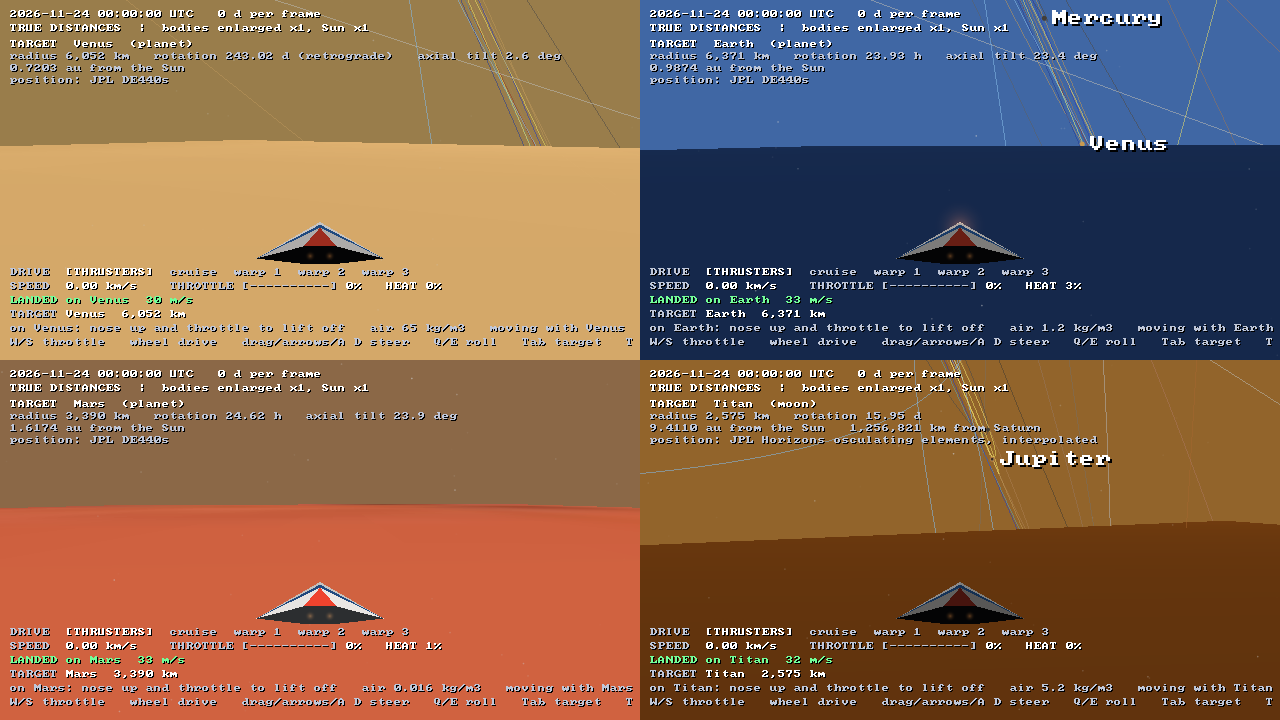
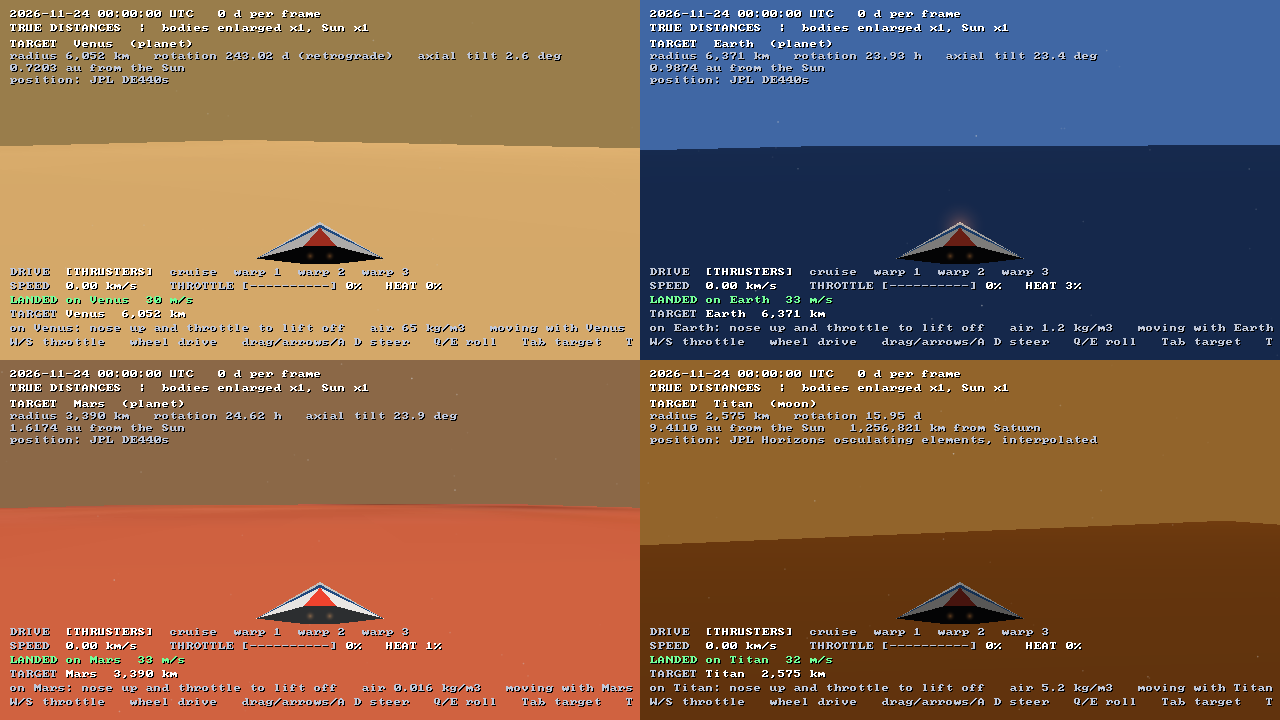
Daytime skies wash out orbit lines, small bodies, distant markers and labels (#25)
Claude-Session: https://claude.ai/code/session_01RnCNuPJ5oJ6X3kueXjscsz

diff --git a/app/renderer.cpp b/app/renderer.cpp
@@ -485,18 +485,25 @@ void Renderer::addShip(const Ship& ship, const Vec3& origin) {
     }
 }
 
-// The sky from inside a body's air: its colour, as bright as the air above
-// is thick (the column above goes as the density here), on the day side only.
-// Never at full strength, so the HUD stays readable against it.
-std::array<float, 3> Renderer::skyColor(const Ship& ship) const {
-    if (ship.air() < 0) return {0, 0, 0};
+// How bright the sky is from inside a body's air, 0 (black) to 1: as bright
+// as the air above is thick (the column above goes as the density here), on
+// the day side only.
+double Renderer::daylight(const Ship& ship) const {
+    if (ship.air() < 0) return 0;
     const auto i = static_cast<size_t>(ship.air());
     const Atmosphere air = atmosphereOf(sys_.bodies()[i].naif);
     const Vec3 normal = normalize(ship.position - drawn_[i]);
     const double sunUp = dot(normal, normalize(drawn_[0] - drawn_[i]));
     const double day = std::clamp((sunUp + 0.1) / 0.3, 0.0, 1.0);
-    const double thick = std::sqrt(std::min(ship.airDensity() / air.surfaceDensity, 1.0));
-    const float k = f(0.7 * day * thick);
+    return day * std::sqrt(std::min(ship.airDensity() / air.surfaceDensity, 1.0));
+}
+
+// The sky's colour: the air's, never at full strength, so the HUD stays
+// readable against it.
+std::array<float, 3> Renderer::skyColor(const Ship& ship) const {
+    if (ship.air() < 0) return {0, 0, 0};
+    const Atmosphere air = atmosphereOf(sys_.bodies()[static_cast<size_t>(ship.air())].naif);
+    const float k = f(0.7 * daylight(ship));
     return {air.sky[0] * k, air.sky[1] * k, air.sky[2] * k};
 }
 
@@ -653,6 +660,10 @@ FrameReport Renderer::draw(const SystemState& state, const CameraState& cam, con
 
     // Which planet system the camera is in: its moons get orbits and labels.
     int system = cam.freeFly ? -1 : view.ship ? view.ship->anchor() : cam.focus;
+    // A daytime sky washes out the faint things: orbits, small bodies, the
+    // markers of distant bodies and their labels fade as it brightens, and are
+    // gone by 40% daylight. The Sun, the target and nearby spheres stay.
+    const double faint = view.ship ? std::clamp(1 - 2.5 * daylight(*view.ship), 0.0, 1.0) : 1.0;
     if (system > 0 && bodies[static_cast<size_t>(system)].kind == BodyKind::Moon) system = bodies[static_cast<size_t>(system)].parent;
 
     // ---- bodies
@@ -702,8 +713,8 @@ FrameReport Renderer::draw(const SystemState& state, const CameraState& cam, con
             default: marker.size_pixels = 4; break;
         }
         std::memcpy(marker.color, b.color, sizeof b.color);
-        marker.color[3] = state.extrapolated[i] ? 0.5f : 1.0f;
-        points_.push_back(marker);
+        marker.color[3] = f((state.extrapolated[i] ? 0.5 : 1.0) * (static_cast<int>(i) == cam.focus ? 1.0 : faint));
+        if (marker.color[3] > 0) points_.push_back(marker);
         if (view.axes && b.hasPole && drawnRadius_[i] > 0) {
             Vec3 pole;
             sys_.pole(static_cast<int>(i), state.jdTdb, pole);
@@ -713,7 +724,7 @@ FrameReport Renderer::draw(const SystemState& state, const CameraState& cam, con
     }
 
     // ---- small bodies
-    if (view.smallBodies) {
+    if (view.smallBodies && faint > 0) {
         const auto& sbs = sys_.smallBodies();
         for (size_t k = 0; k < drawnSmall_.size(); ++k) {
             const SmallBodyGroup& g = sys_.groups()[static_cast<size_t>(sbs[k].group)];
@@ -721,13 +732,14 @@ FrameReport Renderer::draw(const SystemState& state, const CameraState& cam, con
             setVec(p.position, drawnSmall_[k] - origin);
             p.size_pixels = 2.0f;
             std::memcpy(p.color, g.color, sizeof g.color);
-            p.color[3] = 0.75f;
+            p.color[3] = f(0.75 * faint);
             points_.push_back(p);
         }
     }
 
     // ---- orbits, trajectories, rings
-    if (view.orbits) {
+    const size_t orbitsFrom = lines_.size();
+    if (view.orbits && faint > 0) {
         for (size_t i = 1; i < bodies.size(); ++i) {
             const Body& b = bodies[i];
             const bool show = b.kind == BodyKind::Planet || b.kind == BodyKind::Dwarf || b.kind == BodyKind::Comet ||
@@ -749,6 +761,7 @@ FrameReport Renderer::draw(const SystemState& state, const CameraState& cam, con
             }
         }
     }
+    for (size_t k = orbitsFrom; k < lines_.size(); ++k) lines_[k].color[3] *= f(faint);
     for (size_t i = 1; i < bodies.size(); ++i) {
         if (bodies[i].kind == BodyKind::Planet) addRings(static_cast<int>(i), state, view.scale, origin);
     }
@@ -779,7 +792,7 @@ FrameReport Renderer::draw(const SystemState& state, const CameraState& cam, con
     }
 
     // ---- labels
-    if (view.labels) {
+    if (view.labels && faint > 0) {
         const float* pr = camera.projection;
         struct Rect {
             float x0, y0, x1, y1;
@@ -842,7 +855,10 @@ FrameReport Renderer::draw(const SystemState& state, const CameraState& cam, con
                 if (d.body != i && d.w < clipW && std::hypot(nx - d.x, ny - d.y) < d.r) return;
             }
             taken.push_back(r);
-            text(x, y, size, bodies[i].kind == BodyKind::Moon ? kDim : kWhite, name);
+            float color[4];
+            std::memcpy(color, bodies[i].kind == BodyKind::Moon ? kDim : kWhite, sizeof color);
+            color[3] *= f(faint);
+            text(x, y, size, color, name);
             ++report.labels;
         };
         // Priority order: the Sun, planets, dwarf planets, the focused system's

diff --git a/app/main.cpp b/app/main.cpp
@@ -1016,11 +1016,12 @@ int main(int argc, char** argv) {
                 std::filesystem::create_directories(args.framesDir);
                 const int count = std::max(args.count, 1);
                 double hottest = 0;
+                FrameReport last;
                 for (int i = 0; i < count; ++i) {
                     world->shipDt = i == 0 ? 0.0 : 1.0 / 30;
                     char rate[64];
                     std::snprintf(rate, sizeof rate, "%g d per frame", args.step);
-                    frame(rate);
+                    last = frame(rate);
                     hottest = std::max(hottest, world->ship.heat());
                     char name[64];
                     std::snprintf(name, sizeof name, "/frame_%04d.png", i);
@@ -1031,9 +1032,10 @@ int main(int argc, char** argv) {
                 std::printf("wrote %d frames to %s\n", count, args.framesDir.c_str());
                 if (cam.ship) {
                     const Touchdown& td = world->ship.touchdown();
-                    std::printf("ship: touchdown %s%s%s, hottest %.0f%%\n", touchdownName(td.grade),
-                                td.body >= 0 ? " on " : "", td.body >= 0 ? sys.bodies()[static_cast<size_t>(td.body)].name.c_str() : "",
-                                hottest * 100);
+                    std::printf("ship: touchdown %s%s%s, hottest %.0f%%, %d labels in the last frame\n",
+                                touchdownName(td.grade), td.body >= 0 ? " on " : "",
+                                td.body >= 0 ? sys.bodies()[static_cast<size_t>(td.body)].name.c_str() : "", hottest * 100,
+                                last.labels);
                 }
             } else {
                 frame("paused");

diff --git a/app/renderer.hpp b/app/renderer.hpp
@@ -91,6 +91,7 @@ private:
     bool placeTextured(size_t body, const SystemState& state, const Vec3& origin);
     void addShip(const Ship& ship, const Vec3& origin);
     void addDust(const Ship& ship, const Vec3& origin);
+    double daylight(const Ship& ship) const;
     std::array<float, 3> skyColor(const Ship& ship) const;
     void addTargetMarker(int body, const CameraState& cam, const Vec3& origin, int width, int height);
     // Pixel position of a camera-relative point; false behind the camera.

diff --git a/README.md b/README.md
@@ -164,7 +164,7 @@ up through speed tiers.
   - Speed in air heats the ship, and the HUD shows HEAT. Each air has a burn speed, which is higher where the air is thinner: in Earth's air about 5 km/s at sea level, 16 km/s at 60 km and 50 km/s at the top (119 km). Heat climbs over a few seconds toward (speed / burn speed)³ and cools the same way. At 100% the ship burns up and is put back above the air, as after a crash. Above 75% the HUD warns HOT.
   - So come down on thrusters, or throttle well back on cruise. Mass lock alone lets the ship into Earth's air at about 70 km/s, which burns it up within a second.
   - Both autopilots keep to 60% of the burn speed in air (about 25% heat) and slow down before reaching the air's top. The landing autopilot reaches the ground in about 30 s on Earth, 20 s on Mars, 60 s on Titan and 90 s on Venus, all from its standoff.
-  - Inside the air, the sky takes the air's colour on the day side, brighter the deeper you are. A glow of hot air grows over the ship's leading end as it heats.
+  - Inside the air, the sky takes the air's colour on the day side, brighter the deeper you are. As it brightens, the faint things fade out: orbit lines, small bodies, the markers of distant bodies and the labels. They are gone by 40% daylight, about 15 km up on Earth. The Sun, the target and nearby bodies stay. A glow of hot air grows over the ship's leading end as it heats.
   - The burn speed, the drag's ballistic coefficient (10,000 kg/m²), the single-layer air and the sky colours are game choices. The densities and scale heights are real.
 
 | Landed under four skies: Venus, Earth, Mars and Titan | Coming down into Earth's air: 57 km up, 10 km/s, 27% heat |
@@ -293,7 +293,7 @@ The other tests:
 - `test_missions` covers the missions: the list (ten, unique ids, every kind, pars on the races only), every mission's bodies existing and present at its date in the real catalogue with its landings on solid ground, the start pose, a landing tour completing in any order with a crash not counting and the clock stopping at the end, latitude and far-side landings counting only where they ask (and saying why not), a flyby at warp 3 counting across a single step, a race flown by hand beating the landing autopilot, and the best-time records (round trip, damaged lines skipped, only a faster time replacing one).
 - `mission_moon_run` flies the Moon run headless in the app on the landing autopilot and checks that it completes.
 - `test_atmosphere` covers air: the four atmospheres and none elsewhere, density at the surface, one scale height up and the top, and the burn speed. In flight it covers thrusters staying cool at 60 km in Earth's air, cruise at 40 km/s there burning up (put back above the air, cold and at rest), heat building over seconds just over the burn speed, Venus's air holding the ship back, the landing autopilot coming down through each of the four airs without passing 50% heat, climbing out on autopilot staying cool, and the same burn-up at 500 times the drawn size.
-- `land_through_air` flies the landing autopilot to Mars headless in the app and checks for a soft touchdown with the heat under 50%.
+- `land_through_air` flies the landing autopilot to Earth headless in the app and checks for a soft touchdown with the heat under 50%, and for no labels in the daytime sky once landed (Mercury and Venus are in view).
 - `render_smoke` renders four views headless (three orbit views and one from the ship) and checks that each frame is lit, with the expected numbers of spheres, points, orbit vertices and labels, and that the ship is drawn in the ship view.
 - CI also opens the exported USD layer with OpenUSD (`tests/check_usda.py`).
 - The browser build's CI checks that the DE440s kernel cut for the web gives the same positions as the full kernel, bit for bit (`tests/check_trim_spk.py`; see [web/README.md](web/README.md)).
@@ -353,7 +353,7 @@ it directly; CI checks it with OpenUSD (`usd-core`).
 - **Two-body small bodies.** Small bodies are propagated two-body from a single 2026 epoch (see Accuracy).
 - **UTC before 1972** uses TAI − UTC = 10 s, which is an approximation.
 - **Plain labels.** Labels are skipped where they would overlap, and the font is ASCII only.
-- **An arcade ship.** The ship's velocity follows its nose; there is no gravity, orbit or inertia. It stops and lands at the surfaces of the rocky planets, moons and dwarf planets, and flies through asteroids, comets and spacecraft. The Sun and the giant planets are a hard boundary at their drawn radius: there is no atmosphere to fly into, only being put back outside. Air is a single exponential layer with no winds, weather, lift or real heat-shield physics. Pluto's and Triton's thin air is left out. Orbit lines and labels still show in a daytime sky. Autopilot flies straight at the target and does not steer around a body in the way: mass lock slows it, and it lands on that body.
+- **An arcade ship.** The ship's velocity follows its nose; there is no gravity, orbit or inertia. It stops and lands at the surfaces of the rocky planets, moons and dwarf planets, and flies through asteroids, comets and spacecraft. The Sun and the giant planets are a hard boundary at their drawn radius: there is no atmosphere to fly into, only being put back outside. Air is a single exponential layer with no winds, weather, lift or real heat-shield physics. Pluto's and Triton's thin air is left out. Autopilot flies straight at the target and does not steer around a body in the way: mass lock slows it, and it lands on that body.
 - **Mission times stay on the device.** There is no shared leaderboard, and a desktop and a browser keep separate records.
 - **Depth precision.** A deep near-to-far range is unavoidable. Far spheres can fall beyond the far plane, but their point markers still show them.
 
